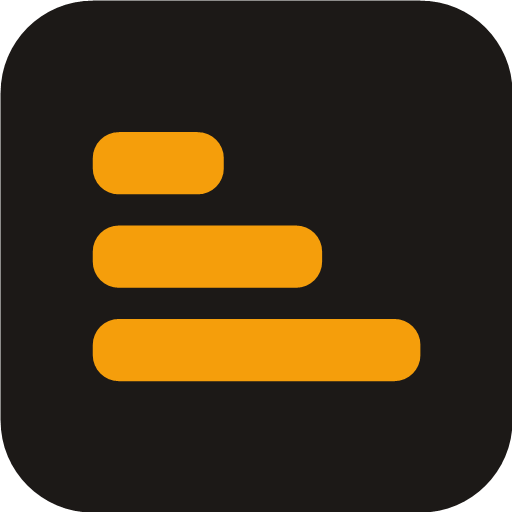
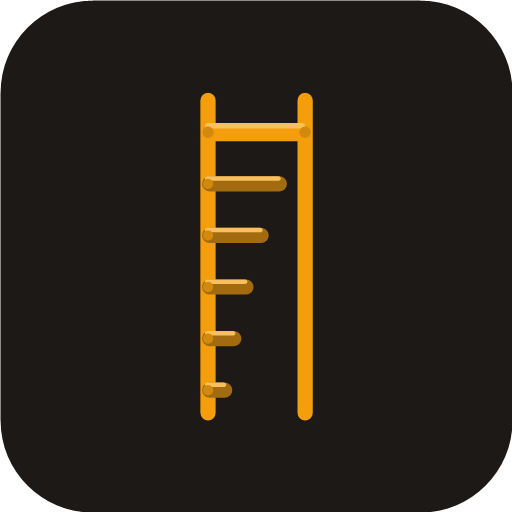
Rename 3·2·1 → Wadder, with a new ladder mark
Word + ladder. New brandmark/app icon: two full-height rails, six rungs,
the top one spanning both rails (one word climbed) and each rung below a
step shorter. Regenerated icon-192/512/maskable from the rewritten
gen-icons.ps1.

Also: title, PWA name/description, apple-mobile-web-app-title, the home
wordmark (W-a-dder, amber "a"), games.js card, two in-app strings, and
sw.js CACHE → wadder-shell-v1 (forces installed PWAs to re-fetch).

Unchanged on purpose: the games/3-2-1/ folder + path (installed PWA and
Pages URL stability) and all three21.* localStorage keys (would wipe
saved scores/streak/prefs).

Changed region(s): [[0.1562, 0.1875, 0.8438, 0.8438]]

diff --git a/index.html b/index.html
@@ -3,12 +3,12 @@
 <head>
 <meta charset="UTF-8">
 <meta name="viewport" content="width=device-width, initial-scale=1, maximum-scale=1, user-scalable=no, viewport-fit=cover">
-<title>3-2-1</title>
+<title>Wadder</title>
 <link rel="manifest" href="manifest.webmanifest">
 <meta name="theme-color" content="#1c1917">
 <meta name="apple-mobile-web-app-capable" content="yes">
 <meta name="apple-mobile-web-app-status-bar-style" content="black-translucent">
-<meta name="apple-mobile-web-app-title" content="3·2·1">
+<meta name="apple-mobile-web-app-title" content="Wadder">
 <link rel="apple-touch-icon" href="icon-192.png">
 <link rel="icon" href="icon-192.png">
 <style>
@@ -64,14 +64,15 @@
     align-items: center;
     gap: 16px;
   }
-  /* Growing-bars mark above the wordmark — each step longer, like the words. */
+  /* Ladder mark above the wordmark — six rungs, the top one climbed, the
+     rest tapering down toward what's left. */
   .brandmark {
     display: block;
-    width: 72px;
-    height: auto;
-    margin: 0 auto 16px;
+    height: 58px;
+    width: auto;
+    margin: 0 auto 14px;
+    color: var(--accent);
   }
-  .brandmark rect { fill: var(--accent); }
   /* Keep gameplay tight — the mark drops away on the play screen. */
   body:has(#screen-play:not([hidden])) .brandmark { display: none; }
   /* Tutorial is a fixed card — no scrolling, so a swipe is never stolen as a pan. */
@@ -81,10 +82,11 @@
   }
   h1 {
     margin: 0 0 22px;
-    font-size: 2rem;
-    font-weight: 700;
-    letter-spacing: 0.06em;
+    font-size: 2.1rem;
+    font-weight: 800;
+    letter-spacing: -0.015em;
   }
+  h1 .brand-k { color: var(--accent); }
   .lede { margin: 0; color: var(--muted); font-size: 0.95rem; line-height: 1.5; }
 
   /* Loading — three dots, shown while we work out where to route on open. */
@@ -567,12 +569,38 @@
 </head>
 <body>
   <main>
-    <svg class="brandmark" viewBox="0 0 90 39" aria-hidden="true">
-      <rect x="3" y="1" width="33" height="11" rx="5"/>
-      <rect x="3" y="14" width="57" height="11" rx="5"/>
-      <rect x="3" y="27" width="84" height="11" rx="5"/>
+    <svg class="brandmark" viewBox="0 0 48 120" aria-hidden="true">
+      <rect x="5.5" y="6" width="5" height="108" rx="2.5" fill="currentColor"/>
+      <rect x="37.5" y="6" width="5" height="108" rx="2.5" fill="currentColor"/>
+      <rect x="6" y="6" width="1.4" height="108" rx="0.7" fill="#fff" fill-opacity="0.22"/>
+      <rect x="38" y="6" width="1.4" height="108" rx="0.7" fill="#fff" fill-opacity="0.22"/>
+      <g fill="currentColor">
+        <rect x="6" y="16" width="36" height="6" rx="3"/>
+        <rect x="6" y="33.5" width="28" height="5" rx="2.5" fill-opacity="0.62"/>
+        <rect x="6" y="50.5" width="22" height="5" rx="2.5" fill-opacity="0.62"/>
+        <rect x="6" y="67.5" width="17" height="5" rx="2.5" fill-opacity="0.62"/>
+        <rect x="6" y="84.5" width="13" height="5" rx="2.5" fill-opacity="0.62"/>
+        <rect x="6" y="101.5" width="10" height="5" rx="2.5" fill-opacity="0.62"/>
+      </g>
+      <g fill="#fff" fill-opacity="0.28">
+        <rect x="7" y="16" width="33" height="1.8" rx="0.9"/>
+        <rect x="7" y="33.5" width="25" height="1.5" rx="0.75"/>
+        <rect x="7" y="50.5" width="19" height="1.5" rx="0.75"/>
+        <rect x="7" y="67.5" width="14" height="1.5" rx="0.75"/>
+        <rect x="7" y="84.5" width="10" height="1.5" rx="0.75"/>
+        <rect x="7" y="101.5" width="7" height="1.5" rx="0.75"/>
+      </g>
+      <g fill="currentColor">
+        <circle cx="8" cy="19" r="1.9"/>
+        <circle cx="40" cy="19" r="1.9"/>
+        <circle cx="8" cy="36" r="1.7"/>
+        <circle cx="8" cy="53" r="1.7"/>
+        <circle cx="8" cy="70" r="1.7"/>
+        <circle cx="8" cy="87" r="1.7"/>
+        <circle cx="8" cy="104" r="1.7"/>
+      </g>
     </svg>
-    <h1>3&middot;2&middot;1</h1>
+    <h1>W<span class="brand-k">a</span>dder</h1>
 
     <!-- LOADING — the screen shown at rest, before we know where to route -->
     <section id="screen-loading">
@@ -696,7 +724,7 @@
 
     <!-- VS: joined via invite link -->
     <section id="screen-vs-join" hidden>
-      <p class="lede" id="vs-join-lede">You've been invited to a game of 3&middot;2&middot;1!</p>
+      <p class="lede" id="vs-join-lede">You've been invited to a game of Wadder!</p>
       <p class="note" id="vs-join-diff"></p>
       <input class="nameinput" id="vs-name-join" type="text" placeholder="Your name" maxlength="24" autocomplete="off">
       <button class="primary" id="btn-vs-join" type="button">Play</button>
@@ -2747,7 +2775,7 @@
       const closed = matchIsClosed(data);
       $("#vs-join-lede").textContent = closed
         ? (hostName(data) + "'s game has closed — you can still play it for fun")
-        : (hostName(data) + " started a game of 3·2·1");
+        : (hostName(data) + " started a game of Wadder");
       const count = (data.playerUids || []).length || (data.entrants || []).length;
       let sub = DIFF_INFO[normDiff(data.difficulty)].label + " · " + FORMAT_LABEL[normFormat(data.format)];
       if (count > 1) sub += " · " + count + " playing so far";
@@ -3971,7 +3999,7 @@
         else localStorage.setItem("three21.dev", "1");
       }
     } catch (e) {}
-    if (isDev()) console.log("[3-2-1] dev mode ON — Game of the Day is replayable. ?dev=0 to disable.");
+    if (isDev()) console.log("[wadder] dev mode ON — the Daily Climb is replayable. ?dev=0 to disable.");
 
     // Versus / invite links are off for now: ignore any ?m= and clean the URL.
     if (location.search) history.replaceState(null, "", location.pathname);

diff --git a/sw.js b/sw.js
@@ -1,8 +1,8 @@
-// Service worker for 3·2·1. The HTML is fetched network-first so code updates
+// Service worker for Wadder. The HTML is fetched network-first so code updates
 // land immediately; static assets (dictionary, icons) are cache-first for a
 // fast, offline-capable launch. Firebase / Datamuse / gstatic always hit the
 // network.
-const CACHE = "three21-shell-v5"; // bump to re-fetch cached assets (v5: + climbs.js)
+const CACHE = "wadder-shell-v1"; // bump to re-fetch cached assets (v1: Wadder rename + new icons)
 const ASSETS = [
   "./words.js",
   "./freq.js",
